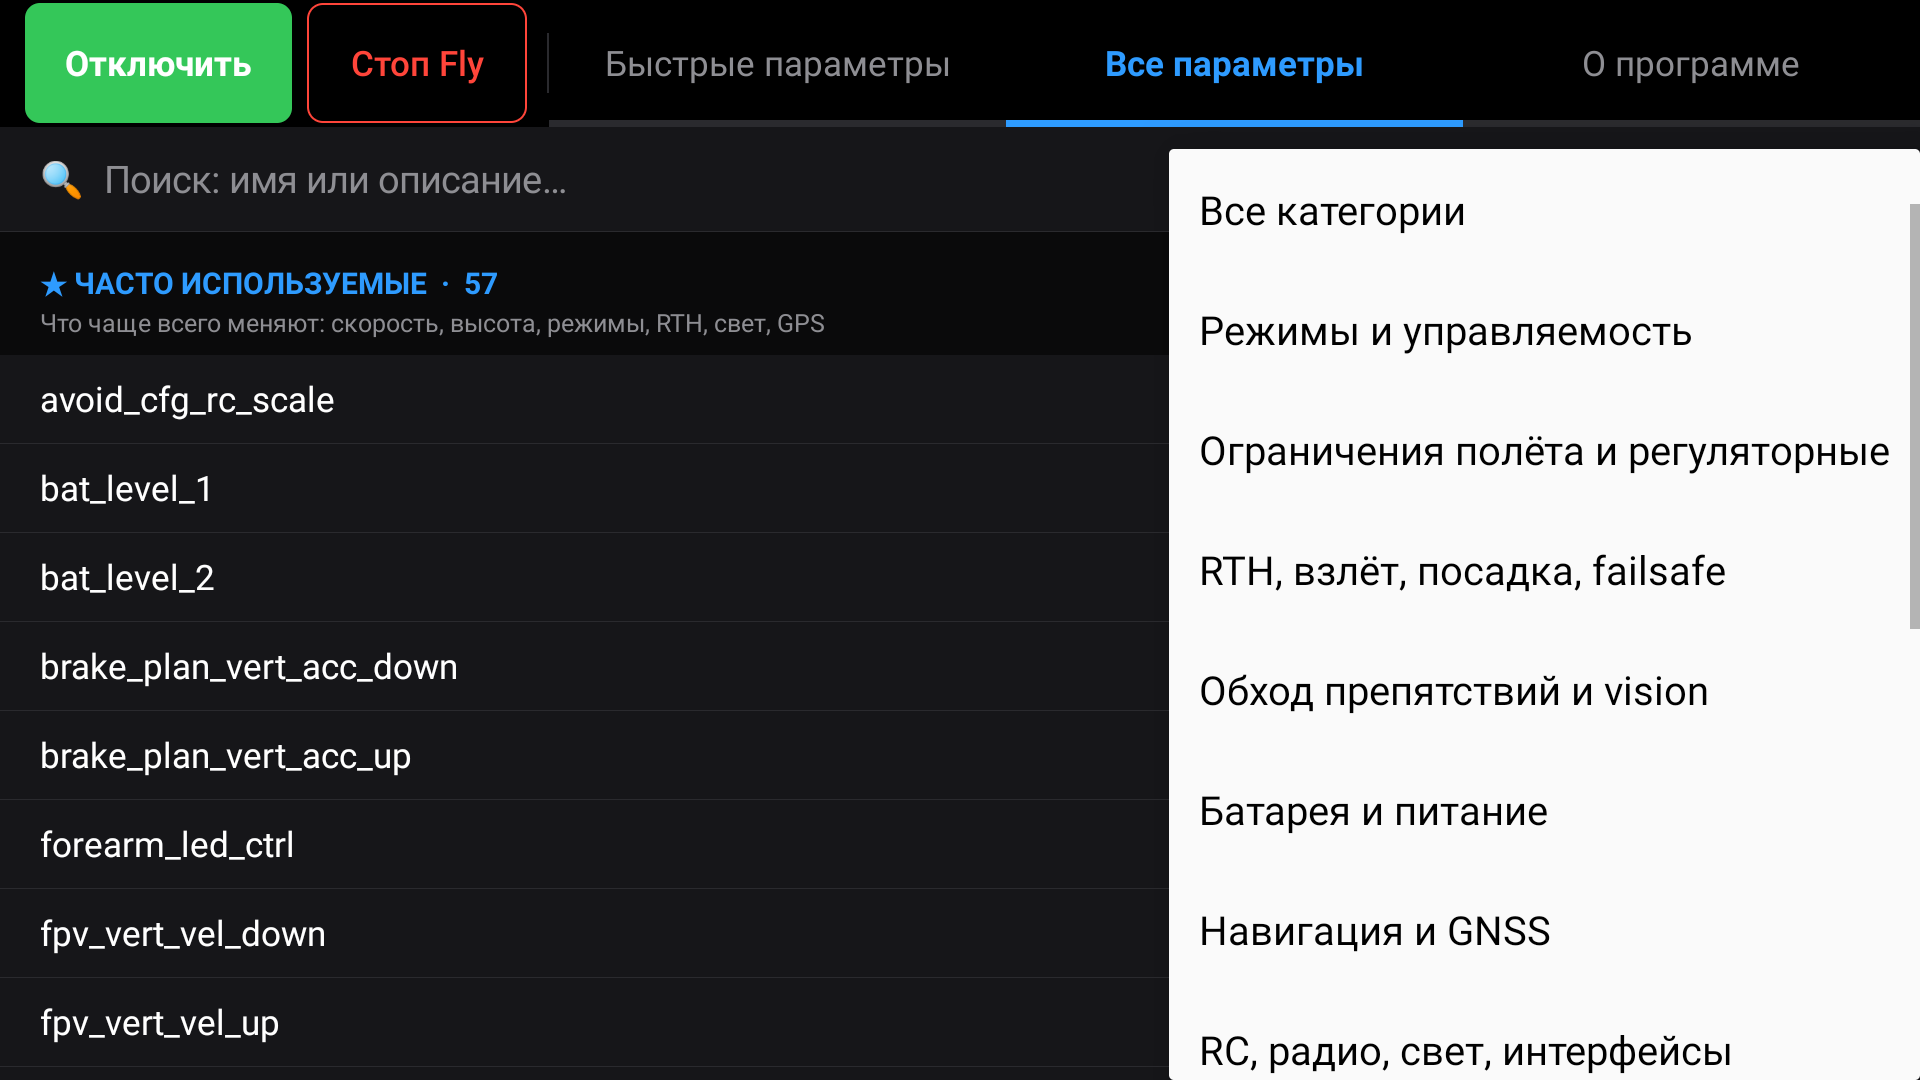
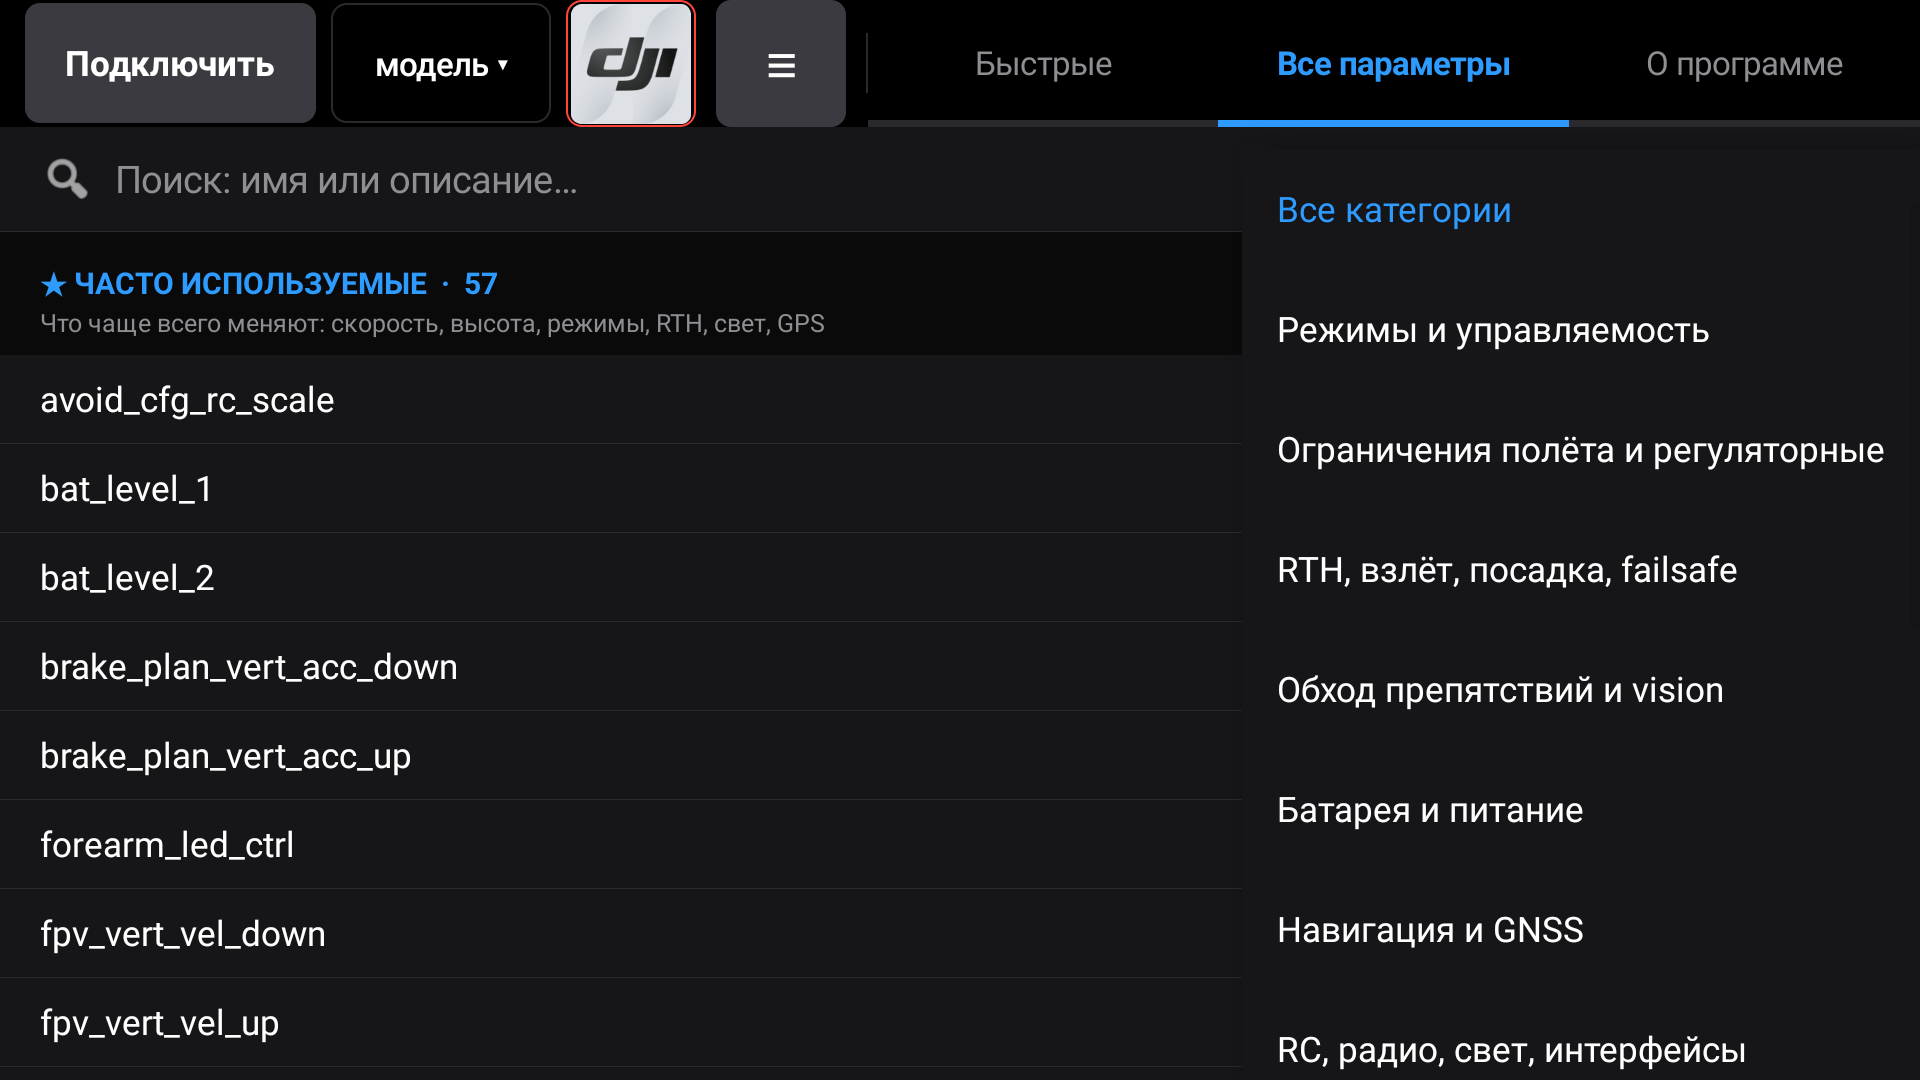
docs: обновлены скриншоты (кнопка DJI, меню ≡, оверлей поверх Fly, default вместо типа) + добавлен скрин оверлея

diff --git a/README.md b/README.md
@@ -50,14 +50,20 @@ UI нативный, в тёмной теме DJI Fly. Приложение мо
 
 <table>
   <tr>
-    <td width="33%"><img src="docs/screenshots/quick-params.png" alt="Быстрые параметры"></td>
-    <td width="33%"><img src="docs/screenshots/all-params.png" alt="Все параметры"></td>
-    <td width="33%"><img src="docs/screenshots/categories.png" alt="Категории параметров"></td>
+    <td width="50%"><img src="docs/screenshots/quick-params.png" alt="Быстрые параметры"></td>
+    <td width="50%"><img src="docs/screenshots/all-params.png" alt="Все параметры"></td>
   </tr>
   <tr>
-    <td align="center">Быстрые параметры — переключатели с текущими значениями и readback</td>
-    <td align="center">Все параметры — поиск, избранное (★), чтение по тапу</td>
+    <td align="center">Быстрые переключатели — ATTI / LED / GPS</td>
+    <td align="center">Все параметры — поиск, избранное (★), значение по тапу</td>
+  </tr>
+  <tr>
+    <td width="50%"><img src="docs/screenshots/categories.png" alt="Категории параметров"></td>
+    <td width="50%"><img src="docs/screenshots/overlay.png" alt="Меню поверх DJI Fly"></td>
+  </tr>
+  <tr>
     <td align="center">Фильтр по категориям параметров</td>
+    <td align="center">Плавающее меню поверх DJI Fly — переключение без выхода из Fly</td>
   </tr>
 </table>
 